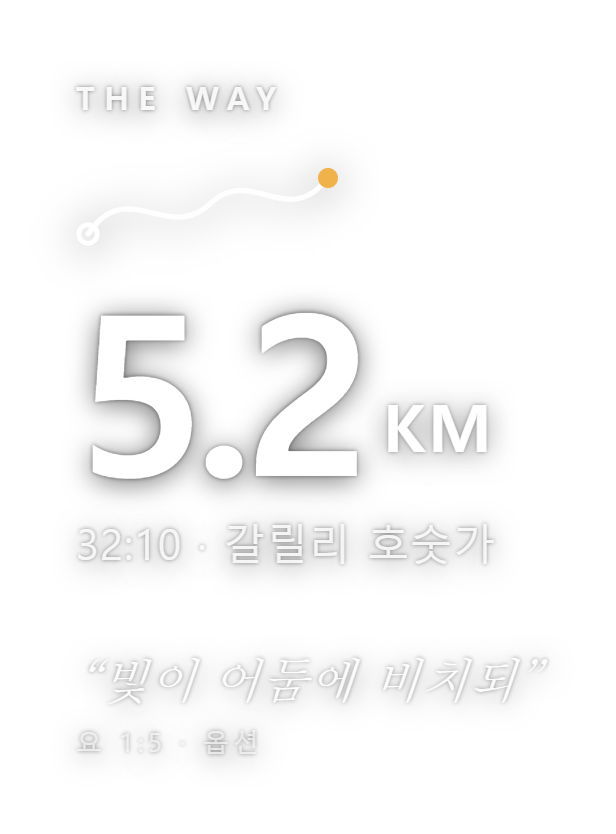
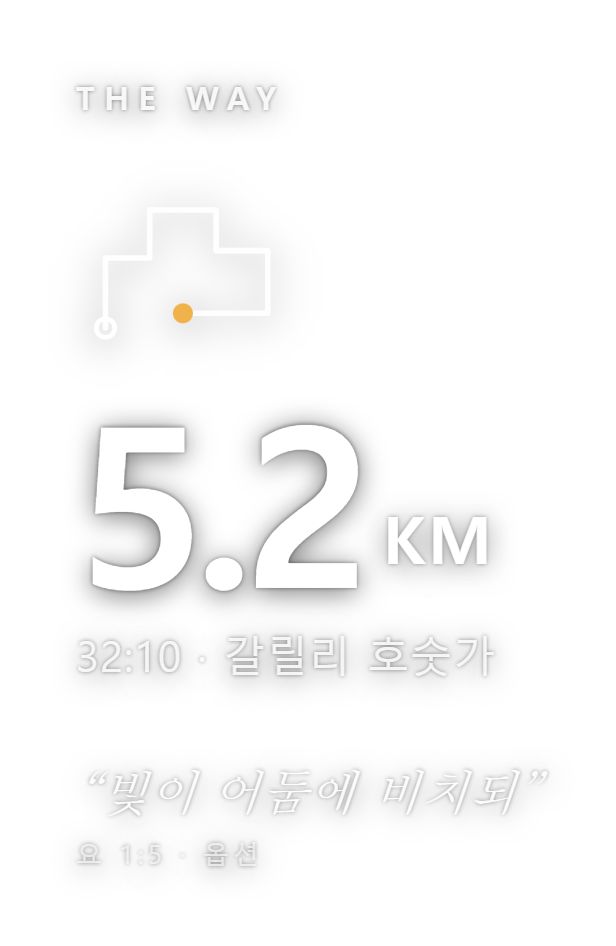
루트 라인을 실제 GPS 경로 모양으로 (지도는 없이)
- 스티커/사진 카드의 루트 라인을 장식 곡선 → 실제 GPS 트레이스처럼
  (도로 따라 꺾이는 폴리라인, 시작=흰 링·끝=앰버). 자리마다 다른 모양.
- 전 PNG 재렌더(assets/stickers + assets/share)
- SOCIAL-SHARE.md 정정: 루트=내가 뛴 실제 경로. 단 지도(동네)·좌표 없이
  선 모양만 + 시작/끝 트리밍으로 위치 보호. "두 개의 선"(스티커 루트 vs
  앱 여정맵 THE LINE) 구분 명시.

diff --git a/docs/SOCIAL-SHARE.md b/docs/SOCIAL-SHARE.md
@@ -9,7 +9,7 @@
 
 ### ① 스티커 (투명 · 배경 없음)
 
-사용자 사진 위에 얹는 **최소 오버레이** — 대형 거리 숫자 + 확실한 루트 라인 "조각"(끝점만 앰버) + 최소 메타. 길·자리마다, 그리고 품은 사람 버전. 실제 파일은 **배경 투명**(`assets/stickers/`), 아래는 체커보드 위 미리보기.
+사용자 사진 위에 얹는 **최소 오버레이** — 대형 거리 숫자 + **루트 라인(내가 뛴 실제 GPS 경로 모양, 시작=흰 링·끝=앰버)** + 최소 메타. 지도·좌표 없이 경로 선만. 길·자리마다, 그리고 품은 사람 버전. 실제 파일은 **배경 투명**(`assets/stickers/`), 아래는 체커보드 위 미리보기.
 
 <table>
 <tr>
@@ -20,7 +20,7 @@
 <tr>
 <td align="center"><img src="assets/stickers/preview/04-verse.png" width="240"><br><sub>성구 옵션(opt-in)</sub></td>
 <td align="center"><img src="assets/stickers/preview/05-intercession.png" width="240"><br><sub>품은 사람 · 품고 ○○</sub></td>
-<td align="center"><sub>루트 라인 "조각"은<br>자리마다 다르게</sub></td>
+<td align="center"><sub>루트 = 실제 뛴 경로<br>(매번 다름)</sub></td>
 </tr>
 </table>
 
@@ -76,17 +76,18 @@
 
 ---
 
-## 3. 우리의 결정적 차별점 — "지도가 없어서 안전하다"
+## 3. 루트 라인 = 내가 뛴 실제 GPS 경로 (지도는 없이)
 
-Strava·Garmin은 **실제 GPS 지도**를 공유하니 집 위치를 숨기느라 고생한다.
-**우리의 "지도"는 실제 지도가 아니라 [[BRAINSTORM]]의 THE LINE — 예수의 공생애를 그린 일러스트 순례길이다.**
+루트 라인은 **사용자가 실제로 뛴 GPS 경로의 모양**이다 — 그래서 GPS가 필요하고, 매번 다르고, "내가 뛴 것"이라는 진정성이 산다(Nike·Strava 카드의 힘). Strava·Garmin도 실제 경로를 선으로 그린다.
 
-> 공유 카드에 뜨는 건 당신 동네 경로가 아니라 **요단강 → 갈릴리 → 예루살렘의 여정 선**과 오늘 닿은 자리다.
+**단, 지도(동네 배경)는 얹지 않는다.** 좌표·지도 없이 **경로의 선 모양만** 떠 있으면 위치 특정이 훨씬 어렵다. 여기에:
+- **시작/끝점 트리밍** — 집·직장이 드러나는 시작·끝 구간을 잘라낸다(원형 크롭만으론 부족 — Strava 85% 역추적 전례).
+- **지명은 순례 자리 단위로만** — "갈릴리 호숫가"(에피소드 자리)이지 실제 동네명이 아니다.
+- **지도 대신 루트 모양 + 거리 + 시간**만.
 
-이 하나가 세 가지를 동시에 해결한다:
-- **프라이버시 내재** — 유출될 실지도가 없다. (경쟁사가 못 하는 것)
-- **아름다움** — 동네 위성지도보다 일러스트 순례길이 훨씬 공유하고 싶다.
-- **정체성** — 카드 자체가 "디지털 순례길"을 말한다.
+→ 실제 경로의 개인성은 살리되, 지도가 없어 위치 유출은 최소화. (도메인의 `RouteTrace` + 트리밍 렌더)
+
+**참고 — 두 개의 "선"은 다르다:** 공유 스티커의 루트 = *오늘 내가 뛴 실제 경로*. 앱 안의 **여정 맵(THE LINE)** = *예수 공생애를 그린 일러스트 순례길*(진행 표시용). 둘은 별개다.
 
 ---
 
@@ -123,8 +124,8 @@ THE LINE + 오늘 닿은 자리 + 최소 스탯 + 얼굴 없는 실루엣 장면
 
 ## 6. 프라이버시 가드레일 (최우선)
 
-- **기본 카드는 위치 없음**(THE LINE, 실지도 아님).
-- 실제 경로를 쓰는 옵션이 생겨도: 시작/끝 구간을 **잘라내고**(원형 크롭 불충분), 좌표 라벨 제거, 지명은 **도시 단위**까지만.
+- **루트는 실제 경로 모양만, 지도(동네 배경)·좌표는 얹지 않는다.**
+- **시작/끝 구간 트리밍**(원형 크롭 불충분), 지명은 순례 자리 단위로만(실 동네명 금지).
 - **기도 내용·대상은 절대 자동 포함 안 함.** 품은 사람 카드도 이름은 이니셜/별칭, 명시적 동의 시에만.
 - 공유는 언제나 사용자가 미리보기 후 선택. 자동 게시 없음.
 
@@ -155,4 +156,4 @@ THE LINE + 오늘 닿은 자리 + 최소 스탯 + 얼굴 없는 실루엣 장면
 
 - **`ShareCard`** 컴포넌트 — `variant`(pilgrimage·photo·intercession·rest) × `mood`([[CONTENT-UX]]) × `format`(story·feed·square)를 받아 렌더 → 캔버스/SVG로 PNG export.
 - **mood-aware:** `mood==='lament'`이면 스탯·축하 요소를 끄고 rest 변형만 허용(Zod refine과 동일 원칙).
-- **위치 안전:** ShareCard는 실 GPS 좌표에 접근하지 않는다(THE LINE 진행값만). 기도 대상은 별칭만.
+- **위치 안전:** ShareCard는 `RouteTrace`의 경로 모양을 쓰되 **지도 없이 선만**, 시작/끝 구간을 트리밍하고 좌표·동네 지명을 제거한다. 기도 대상은 별칭만.
